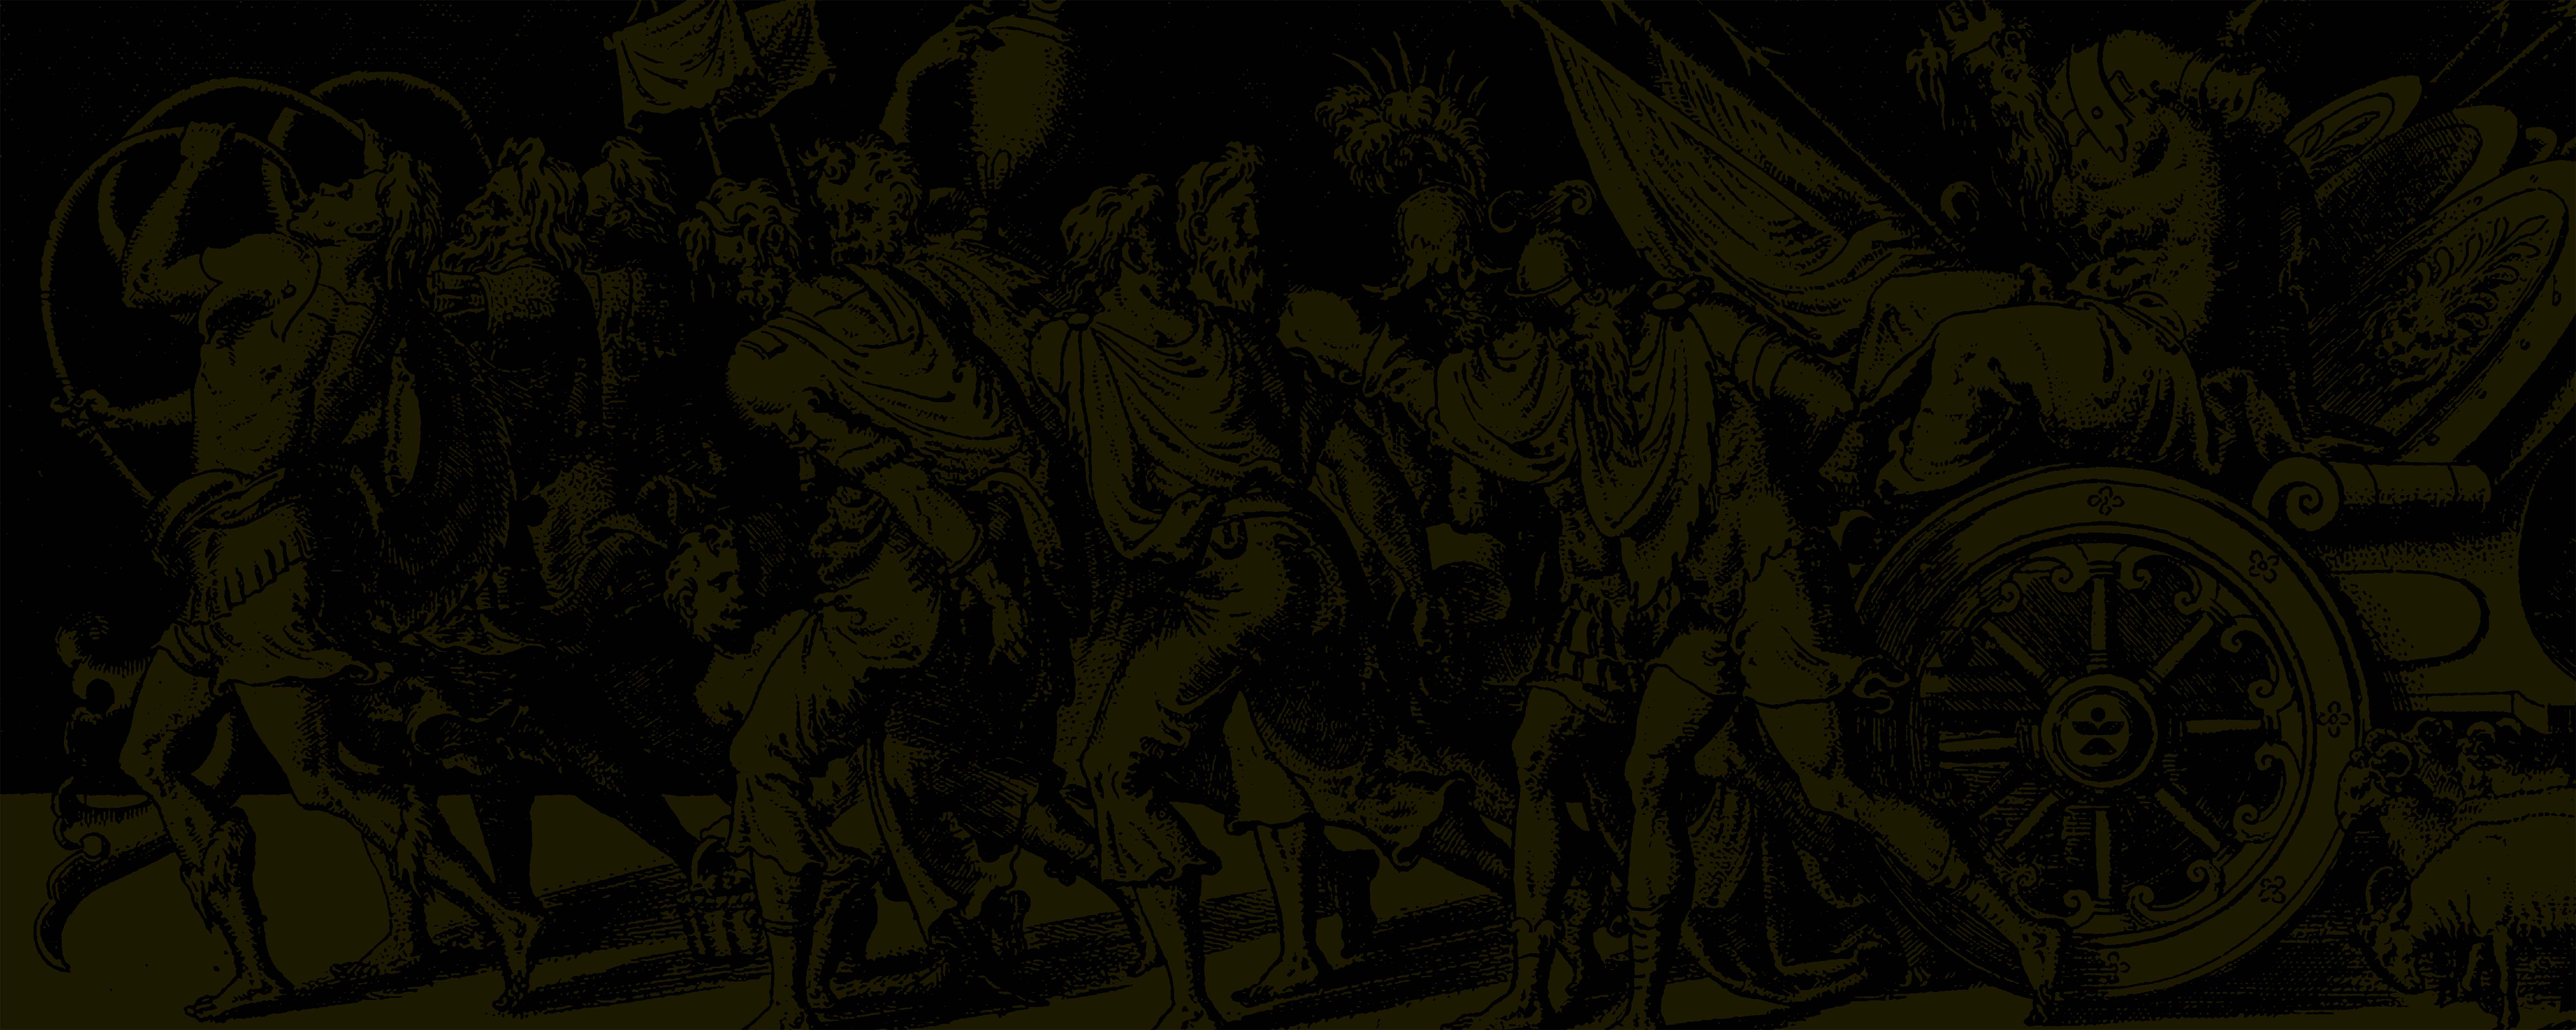
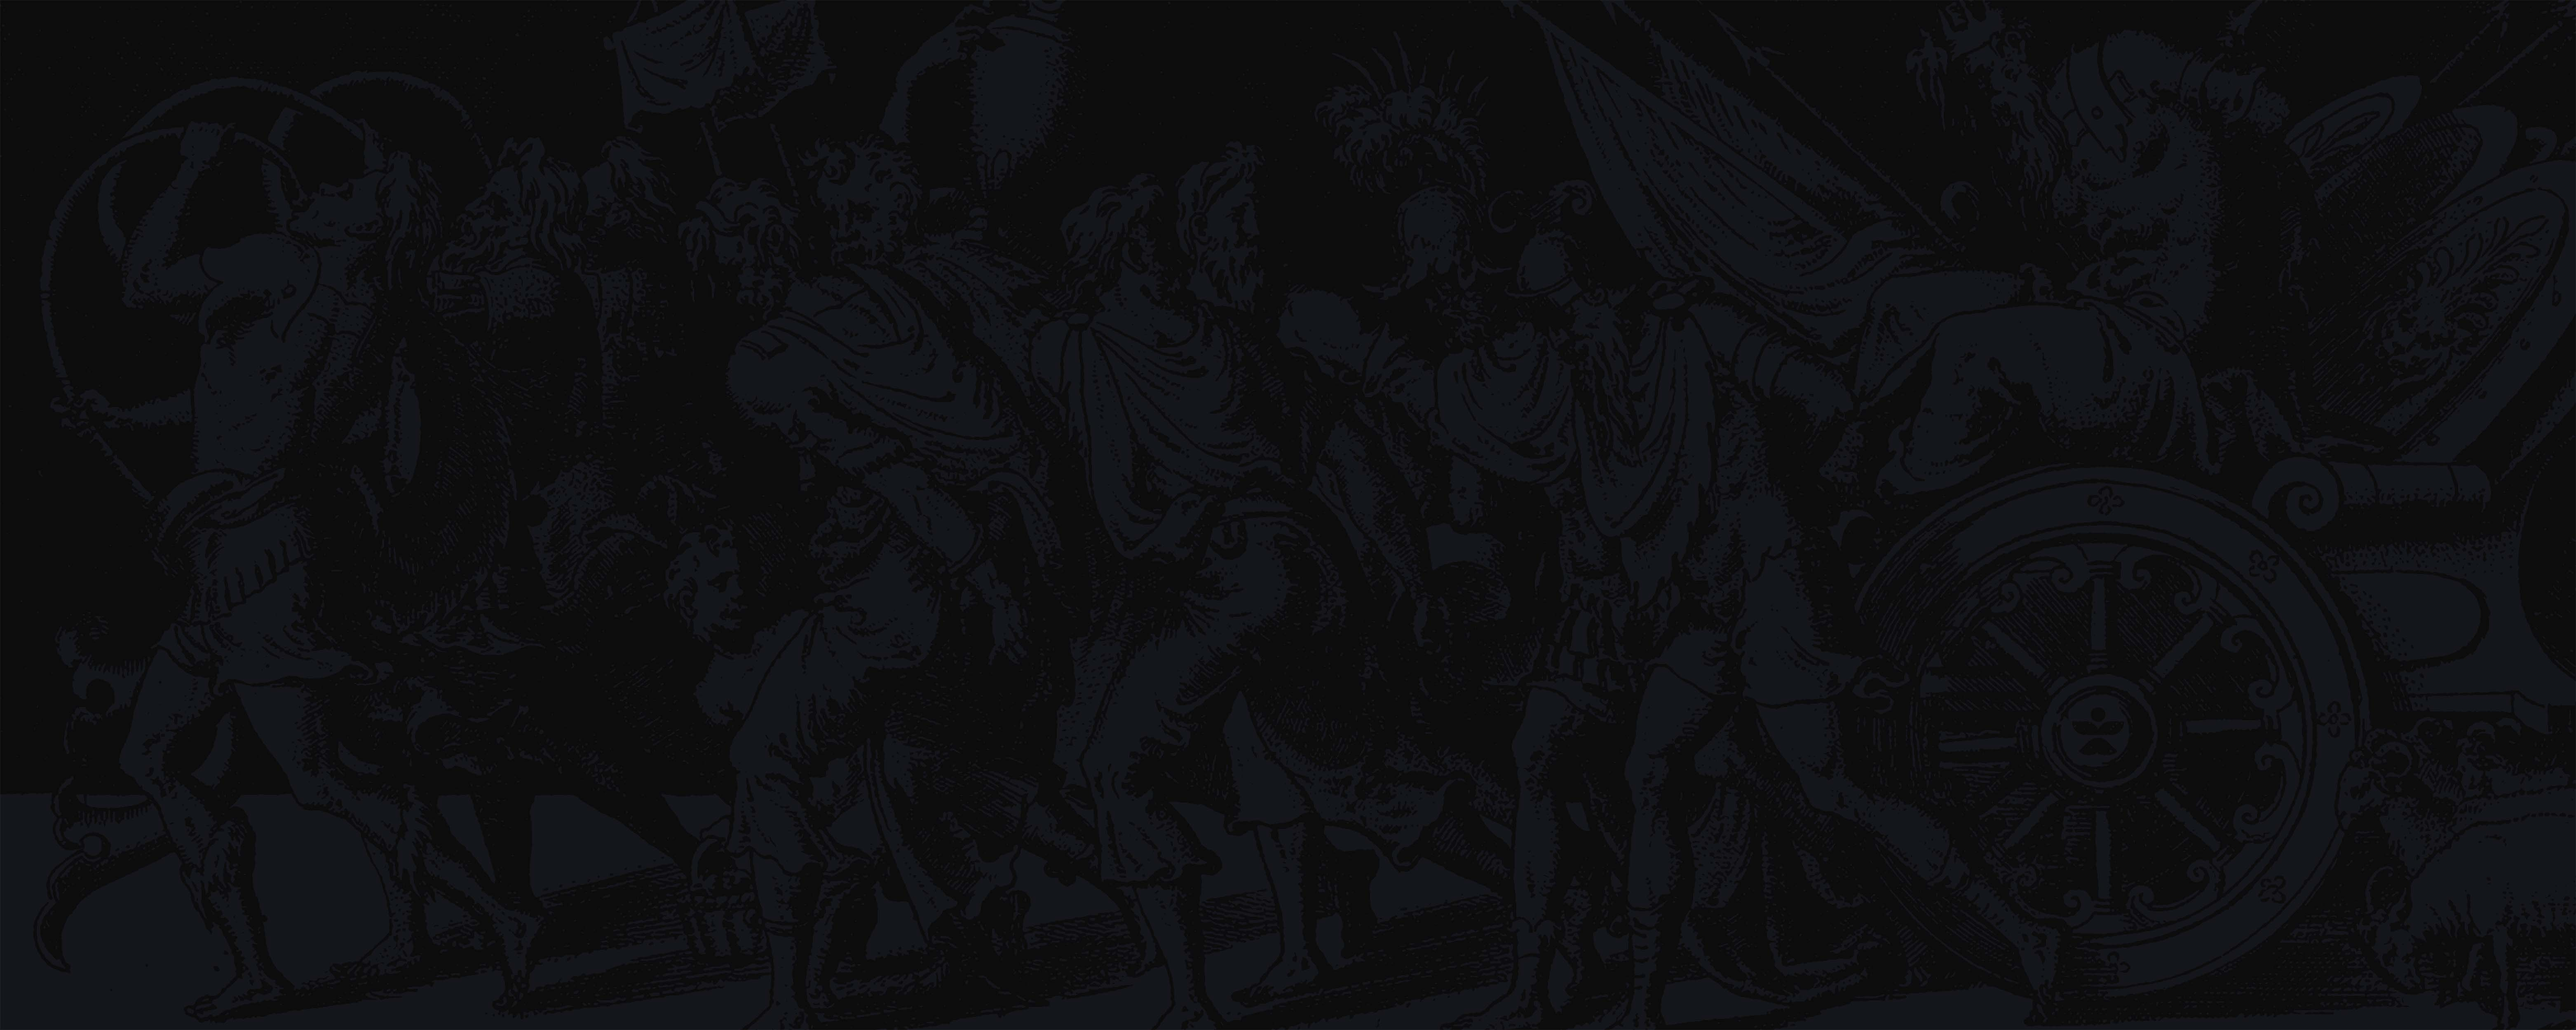
Aggiornato il layout CSS e modificata l'immagine di sfondo; migliorata l'interazione del menu con nuovi eventi e animazioni.

diff --git a/index.html b/index.html
@@ -5,7 +5,7 @@
   <meta name="viewport" content="width=device-width, initial-scale=1.0">
   <title>VEESWAL</title>
   <link href="https://cdn.jsdelivr.net/npm/tailwindcss@2.2.19/dist/tailwind.min.css" rel="stylesheet">
-  <link href="https://fonts.googleapis.com/css2?family=Inter:wght@400;500;700;900&display=swap" rel="stylesheet">
+  <link rel="stylesheet" href="https://use.typekit.net/set5wnr.css">
   <link href="https://unpkg.com/swiper/swiper-bundle.min.css" rel="stylesheet" >
   <link href="style.css" rel="stylesheet">
   <link rel="icon" type="icon" href="assets/logon.ico">
@@ -13,15 +13,15 @@
 
 <body>
 
-  <div class="ml-5 mt-5 mr-0">
-    <div id="site-title" class="uppercase font-bold">
+  <div class="ml-7 mt-5 mr-0">
+    <div id="site-title" class="uppercase">
       <span class="letter">Benvenuta nel</span> <br>
       portfolio di<br>
-      <span id="highlight" class="word">veeswal</span>
+      <span class="highlight" class="word">veeswal</span>
     </div>
   </div>
 
-  <a id="menu-toggle" class="m-5" href="#">+</a>
+  <a id="menu-toggle" class="ml-10 mb-5" href="#">LET'S GO!</a>
 
   <div id="menu" class="accordion">
       <div class="item border-b border-slate-200">
@@ -29,13 +29,13 @@
           <img class="flex w-full" src="assets/About/ScrittonaA.svg" alt="display">
         </button>
         <div class="content text-2xl max-h-0 overflow-hidden transition-all duration-300 ease-in-out mb-8">
-          <br>Mi chiamo Giorgio, ho 22 anni e sono un <span id="highlight">graphic designer</span>.
+          <br>Mi chiamo Giorgio, ho 22 anni e sono un <span class="highlight">graphic designer</span>.
           <br>Nel 2024 ho conseguito una laurea in grafica all’Accademia di Belle Arti di Lecce e al momento frequento il corso di Digital Design and Communication presso la LABA di Brescia.
-          <br>Nel corso degli anni ho sviluppato molte competenze teoriche e abilità progettuali, soprattutto su software come Illustrator e InDesign, dei quali mi reputo <span id="highlight">un conoscitore a tutto tondo</span>. 
+          <br>Nel corso degli anni ho sviluppato molte competenze teoriche e abilità progettuali, soprattutto su software come Illustrator e InDesign, dei quali mi reputo <span class="highlight">un conoscitore a tutto tondo</span>. 
           <br>Ho un’esperienza medio/alta con Photoshop, Figma e Powepoint e mi sto specializzando anche in altri software e campi del design. 
-          <br>Queste conoscenze vengono poi declinate nei settori che mi competono di più, il <span id="highlight">brand identity design</span> e il design editoriale. 
+          <br>Queste conoscenze vengono poi declinate nei settori che mi competono di più, il <span class="highlight">brand identity design</span> e il design editoriale. 
           Alla base di tutto c’è però una grandissima e bruciante passione per il design e la progettazione grafica. 
-          <br>Questo è ciò che <span id="highlight">so e che voglio fare</span>. <br> <br>
+          <br>Questo è ciò che <span class="highlight">so e che voglio fare</span>. <br> <br>
         </div>
       </div>
 
@@ -45,8 +45,8 @@
         </button>
         <div class="content text-2xl max-h-0 overflow-hidden transition-all duration-300 ease-in-out mb-8">
           <br>È la pagina Instagram su cui sovente pubblico i miei progetti. 
-          <br>Il logo di Veeswal è un <span id="highlight">sunto perfetto del mio stile</span> e del mio modo di fare grafica. Nasce da una sintesi estrema della prima parte del meccanismo ottico, costituito da pupilla (<span id="highlight">•</span>), iride (<span id="highlight">}</span>) e cristallino (<span id="highlight"><</span>). 
-          <br>In fase di progettazione li ho stilizzati molto e il risultato finale è stato questo <span id="highlight">simpatico angioletto</span>. <br>
+          <br>Il logo di Veeswal è un <span class="highlight">sunto perfetto del mio stile</span> e del mio modo di fare grafica. Nasce da una sintesi estrema della prima parte del meccanismo ottico, costituito da pupilla (<span class="highlight">•</span>), iride (<span class="highlight">}</span>) e cristallino (<span class="highlight"><</span>). 
+          <br>In fase di progettazione li ho stilizzati molto e il risultato finale è stato questo <span class="highlight">simpatico angioletto</span>. <br>
 
           <div class="swiper mySwiper">
             <div class="swiper-wrapper">
@@ -71,9 +71,9 @@
           <img class="flex w-full" src="assets/Olivetti/ScrittonaOR.svg" alt="display">
         </button>
         <div class="content text-2xl max-h-0 overflow-hidden transition-all duration-300 ease-in-out mb-8">
-          <br>Questa è stata la mia tesi pratica per il conseguimento della mia <span id="highlight">laurea triennale</span> nell’Ottobre del 2024. 
-          <br>Ho realizzato un redesign del logo di Olivetti aggiungendovi anche una breve parte di corporate identity. Mi sono basato sul concetto di infinito introdotto da Marcello Nizzoli nel 1952, partendo da lì ho realizzato un <span id="highlight">logotipo minimal</span> ma contemporaneo. 
-          <br>Il concetto di Nizzoli è stato reimpiegato nel logo (che si trova all’interno del logotipo) in cui il <span id="highlight">pi greco</span> diventa la doppia T di Olivetti.<br>
+          <br>Questa è stata la mia tesi pratica per il conseguimento della mia <span class="highlight">laurea triennale</span> nell’Ottobre del 2024. 
+          <br>Ho realizzato un redesign del logo di Olivetti aggiungendovi anche una breve parte di corporate identity. Mi sono basato sul concetto di infinito introdotto da Marcello Nizzoli nel 1952, partendo da lì ho realizzato un <span class="highlight">logotipo minimal</span> ma contemporaneo. 
+          <br>Il concetto di Nizzoli è stato reimpiegato nel logo (che si trova all’interno del logotipo) in cui il <span class="highlight">pi greco</span> diventa la doppia T di Olivetti.<br>
           <div class="swiper mySwiper">
             <div class="swiper-wrapper">
               <div class="swiper-slide"><img src="assets/Olivetti/cover.pdf" alt="cover"></div>
@@ -96,8 +96,8 @@
           <img class="flex w-full" src="assets/Still Lie/ScrittonaSL.svg" alt="display">
         </button>
         <div class="content text-2xl max-h-0 overflow-hidden transition-all duration-300 ease-in-out mb-8">
-          "<span id="highlight">L’arte deve essere al di là della rappresentazione, la rappresentazione tridimensionale è un’illusione, una bugia</span>".
-          <br>Questo era l’incipit del mio progetto per l’esame di fotografia. Una frase di <span id="highlight">Mondrian</span> che mi ha guidato nella realizzazione di 20 foto ispirate ai miei quadri di nature morte preferiti. 
+          "<span class="highlight">L’arte deve essere al di là della rappresentazione tridimenzionale, questa è un’illusione, una bugia</span>".
+          <br>Questo era l’incipit del mio progetto per l’esame di fotografia. Una frase di <span class="highlight">Mondrian</span> che mi ha guidato nella realizzazione di 20 foto ispirate ai miei quadri di nature morte preferiti. 
           <br>Questo esercizio di stile mi ha iniziato alla fotografia, campo che studio e pratico molto volentieri.<br>
           <div class="swiper mySwiper">
             <div class="swiper-wrapper">
@@ -120,9 +120,9 @@
           <img class="flex w-full" src="assets/Brutalist Pasta/ScrittonaBP.svg" alt="display">
         </button>
         <div class="content text-2xl max-h-0 overflow-hidden transition-all duration-300 ease-in-out mb-8">
-          “<span id="highlight">Che non ti trovo mai, tipo il tempo di cottura della pasta</span>” diceva Dani Faiv nella canzone Legame. Questa frase mi ha ispirato alla realizzazione e concretizzazione del progetto. 
-          <br>Brutalist Pasta è un <span id="highlight">concept ironico</span> che nasce dall’esigenza di avere una confezione di pasta facile da aprire con il tempo di cottura in bella vista, senza altri inutili abbellimenti.
-          <br>Sulla scatola di spaghetti ci sono tutte le informazioni necessarie, ovvero il tipo di pasta, il peso, i tempi di cottura e la più importante: <span id="highlight" class="uppercase">don’t break in half</span>.<br>
+          “<span class="highlight">Che non ti trovo mai, tipo il tempo di cottura della pasta</span>” diceva Dani Faiv nella canzone Legame. Questa frase mi ha ispirato alla realizzazione e concretizzazione del progetto. 
+          <br>Brutalist Pasta è un <span class="highlight">concept ironico</span> che nasce dall’esigenza di avere una confezione di pasta facile da aprire con il tempo di cottura in bella vista, senza altri inutili abbellimenti.
+          <br>Sulla scatola di spaghetti ci sono tutte le informazioni necessarie, ovvero il tipo di pasta, il peso, i tempi di cottura e la più importante: <span class="highlight" class="uppercase">don’t break in half</span>.<br>
           <div class="swiper mySwiper">
             <div class="swiper-wrapper">
               <div class="swiper-slide"><img src="assets/Brutalist Pasta/cover.pdf" alt="cover"></div>
@@ -145,13 +145,13 @@
         <div class="content text-2xl max-h-0 overflow-hidden transition-all duration-300 ease-in-out mb-8">
           <div class="contacts">
             EMAIL
-            <a href="mailto:veeswalproject@gmail.com" id="highlight">veeswalproject@gmail.com</a>
+            <a href="mailto:veeswalproject@gmail.com" class="highlight">veeswalproject@gmail.com</a>
             <br>Instagram
-            <a href="https://www.instagram.com/veeswal/" id="highlight">@veeswal</a>
+            <a href="https://www.instagram.com/veeswal/" class="highlight">@veeswal</a>
             <br>Behance
-            <a href="https://www.behance.net/veeswal" id="highlight">Giorgio Pulli</a>
+            <a href="https://www.behance.net/veeswal" class="highlight">Giorgio Pulli</a>
             <br>LinkedIn
-            <a href="https://www.linkedin.com/in/giorgiopulli/" id="highlight">Giorgio Pulli</a>
+            <a href="https://www.linkedin.com/in/giorgiopulli/" class="highlight">Giorgio Pulli</a>
           </div>
         </div>
       </div>
@@ -163,13 +163,13 @@
         <div class="content text-2xl max-h-0 overflow-hidden transition-all duration-300 ease-in-out mb-8">
           <div class="contacts">
             EMAIL
-            <a href="mailto:veeswalproject@gmail.com" id="highlight">veeswalproject@gmail.com</a>
+            <a href="mailto:veeswalproject@gmail.com" class="highlight">veeswalproject@gmail.com</a>
             <br>Instagram
-            <a href="https://www.instagram.com/veeswal/" id="highlight">@veeswal</a>
+            <a href="https://www.instagram.com/veeswal/" class="highlight">@veeswal</a>
             <br>Behance
-            <a href="https://www.behance.net/veeswal" id="highlight">Giorgio Pulli</a>
+            <a href="https://www.behance.net/veeswal" class="highlight">Giorgio Pulli</a>
             <br>LinkedIn
-            <a href="https://www.linkedin.com/in/giorgiopulli/" id="highlight">Giorgio Pulli</a>
+            <a href="https://www.linkedin.com/in/giorgiopulli/" class="highlight">Giorgio Pulli</a>
           </div>
         </div>
       </div>

diff --git a/scripts.js b/scripts.js
@@ -7,7 +7,7 @@ const setupTitle = () => {
     counter++;
 
     if (counter >= letters.length) counter = 0;
-  }, 500);
+  }, 600);
 };
 
 let buttons = [];
@@ -36,7 +36,7 @@ const setupAccordion = () => {
 
       setTimeout(() => {
         const elementTop = button.getBoundingClientRect().top + window.scrollY;
-        const extraOffset = window.innerWidth * 0.016;
+        const extraOffset = window.innerWidth * 0.005;
         window.scrollTo({
           top: elementTop - extraOffset,
           behavior: "smooth",
@@ -49,11 +49,12 @@ const setupAccordion = () => {
 const setupMenu = () => {
   const menuToggle = document.querySelector("#menu-toggle");
   const menuItems = document.querySelectorAll("#menu .item");
+  const changeText = document.querySelector("#menu-toggle");
   gsap.set(menuToggle, { y: window.innerHeight - 200 });
   const speed = 0.5;
   const tl = gsap.timeline({ paused: true });
   tl.to("#site-title", speed, { y: "-=200%", ease: "power1.inOut" });
-  tl.to("#menu-toggle", speed, { y: "-7vh", rotation: 45 }, `-=${speed / 3}`);
+  tl.to("#menu-toggle", speed, { y: "-7vh", ease: "power1.inOut"}, `-=${speed / 3}`);
   tl.to(
     menuItems,
     {
@@ -75,6 +76,17 @@ const setupMenu = () => {
     menuToggle.classList.toggle("active");
     overflowHidden();
   });
+
+  changeText.addEventListener("click", () => {
+    setTimeout(() => {
+      if (menuToggle.classList.contains("active")) {
+        changeText.textContent = "LET'S GO BACK!";
+      } else {
+        changeText.textContent = "LET'S GO!";
+      }
+    }, 600);
+  });
+
 };
 
 const menuToggle = document.querySelector("#menu-toggle");
@@ -86,6 +98,14 @@ const overflowHidden = () => {
     document.body.style.overflowY = "hidden";
   }
 };
+
+menuToggle.addEventListener("mouseenter", () => {
+  menuToggle.classList.add("highlight");
+});
+
+menuToggle.addEventListener("mouseleave", () => {
+  menuToggle.classList.remove("highlight"); // Torna al colore originale quando il mouse esce
+});
 
 document.addEventListener("DOMContentLoaded", () => {
   console.log("DOMContentLoaded");

diff --git a/style.css b/style.css
@@ -1,8 +1,8 @@
 :root {
   --primary-color: #050200;
-  --secondary-color: #f2f2ee;
-  --tertiary-color: #fac800;
-  --font-family: 'inter', sans-serif;
+  --secondary-color: #e6e6e6;;
+  --tertiary-color: #fac800; 
+  --font-family: 'itc-avant-garde-gothic-pro';
   --font-big: 12.5vw;
 }
 
@@ -19,13 +19,14 @@ body {
   background-position: right;
   background-repeat: no-repeat;
   background-attachment: fixed;
-  height: 100vh; /* Assicura che il body prenda l'intera altezza della viewport */
+  height: 100vh;
   margin: 0;
 }
 
 #site-title {
-  font-size: 11vw;
-  line-height: 9vw;
+  font-size: 11.5vw;
+  line-height: 9.5vw;
+  font-weight: 700;
   position: fixed;
   top: 5%;
 }
@@ -45,13 +46,15 @@ body {
     }
 
     .content {
+      color: var(--secondary-color);
       white-space: pre-line;
-      font-weight: 500;
+      font-weight: 700;
+      font-kerning: auto; 
       margin-bottom: 0.5em;
-      margin-right: 7vw;
-      margin-left: 7vw;
-      font-size: 2vw;
-      line-height: 1.2em;
+      margin-right: 9vw;
+      margin-left: 9vw;
+      font-size: 3.9vw;
+      line-height: 5.1vw;
     }
     &.active {
       .icon {
@@ -71,10 +74,10 @@ body {
 #menu-toggle {
   display: block;
   position: absolute;
-  top: 30px;
+  top: 90px;
   z-index: 1000;
-  font-size: 6rem;
-  font-weight: bold;
+  font-size: 2.5em;
+  font-weight: 700;
 }
 
 #menu-opener {
@@ -120,8 +123,12 @@ body {
   background: var(--tertiary-color);
 }
 
-#highlight {
+.highlight {
 color: var(--tertiary-color);
+}
+
+.cit {
+  text-align: center;
 }
 
 .contacts {
